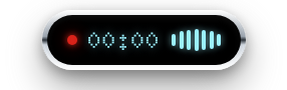
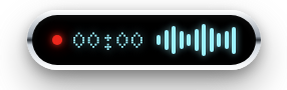
🐛 fix: make the waveform follow quiet and distant voices and scroll with each syllable

diff --git a/src/renderer/recorder/levelEnvelope.ts b/src/renderer/recorder/levelEnvelope.ts
@@ -1,3 +1,14 @@
+const SILENT_LEVEL_DB = -100
+const NOISE_FLOOR_FALL_RATE = 0.3
+const NOISE_FLOOR_RISE_RATE = 0.02
+const NOISE_FLOOR_RISE_WINDOW_DB = 6
+const PEAK_DECAY_DB_PER_SECOND = 4
+const MIN_SPEECH_SPAN_DB = 18
+const NOISE_GATE_DB = 3
+const DISPLAY_RANGE_DB = 24
+const ATTACK_RATE = 0.6
+const RELEASE_RATE = 0.25
+
 export function rootMeanSquare(samples: ArrayLike<number>): number {
   let sumSquares = 0
   for (let index = 0; index < samples.length; index++) {
@@ -7,12 +18,37 @@ export function rootMeanSquare(samples: ArrayLike<number>): number {
   return samples.length > 0 ? Math.sqrt(sumSquares / samples.length) : 0
 }
 
-export function createLevelEnvelope(): (rms: number) => number {
-  let envelope = 0
+function decibels(rms: number): number {
+  return rms > 0 ? Math.max(SILENT_LEVEL_DB, 20 * Math.log10(rms)) : SILENT_LEVEL_DB
+}
+
+export function createVoiceLevelMeter(): (rms: number) => number {
+  let noiseFloorDb: number | null = null
+  let peakDb = SILENT_LEVEL_DB
+  let lastFrameAt = performance.now()
+  let level = 0
+
   return (rms) => {
-    const target = Math.min(1, Math.pow(rms, 0.5) * 2.2)
-    const rate = target > envelope ? 0.55 : 0.12
-    envelope += (target - envelope) * rate
-    return envelope
+    const now = performance.now()
+    const elapsedSeconds = (now - lastFrameAt) / 1000
+    lastFrameAt = now
+    const levelDb = decibels(rms)
+
+    if (noiseFloorDb === null) {
+      noiseFloorDb = levelDb
+    } else {
+      if (levelDb < noiseFloorDb) {
+        noiseFloorDb += (levelDb - noiseFloorDb) * NOISE_FLOOR_FALL_RATE
+      } else if (levelDb < noiseFloorDb + NOISE_FLOOR_RISE_WINDOW_DB) {
+        noiseFloorDb += (levelDb - noiseFloorDb) * NOISE_FLOOR_RISE_RATE
+      }
+    }
+
+    peakDb = Math.max(levelDb, peakDb - PEAK_DECAY_DB_PER_SECOND * elapsedSeconds, noiseFloorDb + MIN_SPEECH_SPAN_DB)
+    const quietestShownDb = Math.max(noiseFloorDb + NOISE_GATE_DB, peakDb - DISPLAY_RANGE_DB)
+    const target = Math.min(1, Math.max(0, (levelDb - quietestShownDb) / (peakDb - quietestShownDb)))
+
+    level += (target - level) * (target > level ? ATTACK_RATE : RELEASE_RATE)
+    return level
   }
 }

diff --git a/src/renderer/recorder/handsFree.ts b/src/renderer/recorder/handsFree.ts
@@ -1,7 +1,7 @@
 import { MicVAD, utils } from '@ricky0123/vad-web'
 import type { HandsFreeCommand } from '../../shared/types'
 import { closeMicrophone, openMicrophone } from './microphone'
-import { createLevelEnvelope, rootMeanSquare } from './levelEnvelope'
+import { createVoiceLevelMeter, rootMeanSquare } from './levelEnvelope'
 import { playWakeChime } from './wakeChime'
 import { SAMPLE_RATE, concatFrames, lastSeconds, trimToSeconds } from './audioFrames'
 import { createCommandChecker, type CommandWindow } from './commandChecker'
@@ -33,7 +33,7 @@ let speaking = false
 let uncheckedSpeechSeconds = 0
 let dictationStartedAt = 0
 let lastSpeechAt = 0
-let levelEnvelope = createLevelEnvelope()
+const measureVoiceLevel = createVoiceLevelMeter()
 let commandQueue: Promise<void> = Promise.resolve()
 const voiceLoudness = createVoiceLoudness()
 
@@ -119,7 +119,6 @@ function beginDictation(alreadyHeard: Float32Array, trigger: DictationTrigger): 
   forgetUncheckedSpeech()
   phase = 'dictating'
   dictationTrigger = trigger
-  levelEnvelope = createLevelEnvelope()
   dictationStartedAt = performance.now()
   lastSpeechAt = dictationStartedAt
 }
@@ -165,8 +164,8 @@ export function finishHotkeyDictation(): boolean {
   return true
 }
 
-function trackDictation(isSpeech: boolean, frame: Float32Array): void {
-  window.recorderApi.sendAudioLevel(levelEnvelope(rootMeanSquare(frame)))
+function trackDictation(isSpeech: boolean, voiceLevel: number): void {
+  window.recorderApi.sendAudioLevel(voiceLevel)
   if (dictationTrigger === 'hotkey') {
     return
   }
@@ -186,8 +185,9 @@ function handleFrame(isSpeech: boolean, frame: Float32Array): void {
   }
   activeFrames().push(frame)
   trackLoudness(isSpeech, frame)
+  const voiceLevel = measureVoiceLevel(rootMeanSquare(frame))
   if (phase === 'dictating') {
-    trackDictation(isSpeech, frame)
+    trackDictation(isSpeech, voiceLevel)
   } else {
     trimToSeconds(listenFrames, phase === 'standby' ? LISTEN_BUFFER_SECONDS : HOTKEY_PRE_ROLL_SECONDS)
   }

diff --git a/src/renderer/overlay/main.ts b/src/renderer/overlay/main.ts
@@ -5,10 +5,9 @@ const counter = document.querySelector<HTMLSpanElement>('#counter')!
 const label = document.querySelector<HTMLSpanElement>('.label')!
 const bars = Array.from(document.querySelectorAll<HTMLSpanElement>('.bar'))
 
-const BAR_SHAPE = [0.45, 0.7, 0.9, 1, 0.9, 0.7, 0.45]
 const QUIET_LEVEL = 0.08
 const COUNTER_REFRESH_MS = 250
-const displayed = new Array<number>(bars.length).fill(QUIET_LEVEL)
+const recentLevels = new Array<number>(bars.length).fill(QUIET_LEVEL)
 let recordingStartedAt = 0
 let counterTimer: number | undefined
 
@@ -35,9 +34,13 @@ function stopCounter(): void {
   counterTimer = undefined
 }
 
+function renderBars(): void {
+  bars.forEach((bar, index) => bar.style.setProperty('--h', String(recentLevels[index] ?? QUIET_LEVEL)))
+}
+
 function resetBars(): void {
-  displayed.fill(QUIET_LEVEL)
-  bars.forEach((bar) => bar.style.setProperty('--h', String(QUIET_LEVEL)))
+  recentLevels.fill(QUIET_LEVEL)
+  renderBars()
 }
 
 window.overlayApi.onStateChange((state) => {
@@ -60,11 +63,7 @@ window.overlayApi.onConfig((config) => {
 })
 
 window.overlayApi.onAudioLevel((level) => {
-  const clamped = Math.max(0, Math.min(1, level))
-  bars.forEach((bar, index) => {
-    const target = Math.max(QUIET_LEVEL, Math.min(1, clamped * (BAR_SHAPE[index] ?? 1)))
-    const current = displayed[index] ?? QUIET_LEVEL
-    displayed[index] = current + (target - current) * 0.5
-    bar.style.setProperty('--h', String(displayed[index]))
-  })
+  recentLevels.shift()
+  recentLevels.push(Math.max(QUIET_LEVEL, Math.min(1, level)))
+  renderBars()
 })

diff --git a/src/renderer/recorder/main.ts b/src/renderer/recorder/main.ts
@@ -1,5 +1,5 @@
 import { closeMicrophone, openMicrophone, withTimeout } from './microphone'
-import { createLevelEnvelope, rootMeanSquare } from './levelEnvelope'
+import { createVoiceLevelMeter, rootMeanSquare } from './levelEnvelope'
 import { finishHotkeyDictation, initHandsFree, startHotkeyDictation } from './handsFree'
 
 let activeStream: MediaStream | null = null
@@ -11,11 +11,11 @@ let analyser: AnalyserNode | null = null
 let levelTimer: number | null = null
 
 function startLevelMetering(stream: MediaStream): void {
-  const levelEnvelope = createLevelEnvelope()
+  const levelEnvelope = createVoiceLevelMeter()
   audioContext = new AudioContext()
   const source = audioContext.createMediaStreamSource(stream)
   analyser = audioContext.createAnalyser()
-  analyser.fftSize = 256
+  analyser.fftSize = 2048
   source.connect(analyser)
 
   const samples = new Float32Array(analyser.fftSize)

diff --git a/src/main/screenshotMode.ts b/src/main/screenshotMode.ts
@@ -54,10 +54,10 @@ export async function captureScreenshots(targets: ScreenshotTargets): Promise<vo
 
   await whenLoaded(overlayWindow)
   showRecordingOverlay()
-  const levels = [0.35, 0.6, 0.75, 0.55, 0.7]
+  const levels = [0.2, 0.55, 0.85, 0.45, 0.25, 0.6, 0.95, 0.7, 0.35, 0.5, 0.8]
   for (const level of levels) {
     overlayWindow.webContents.send(IpcChannel.AudioLevel, level)
-    await wait(120)
+    await wait(60)
   }
   await wait(300)
   await saveCapture(overlayWindow, join(outputDir, 'screenshot-overlay.png'))

diff --git a/src/renderer/overlay/index.html b/src/renderer/overlay/index.html
@@ -18,6 +18,10 @@
           <span class="bar"></span>
           <span class="bar"></span>
           <span class="bar"></span>
+          <span class="bar"></span>
+          <span class="bar"></span>
+          <span class="bar"></span>
+          <span class="bar"></span>
         </div>
         <span class="spinner" aria-hidden="true"></span>
         <span class="label"></span>
